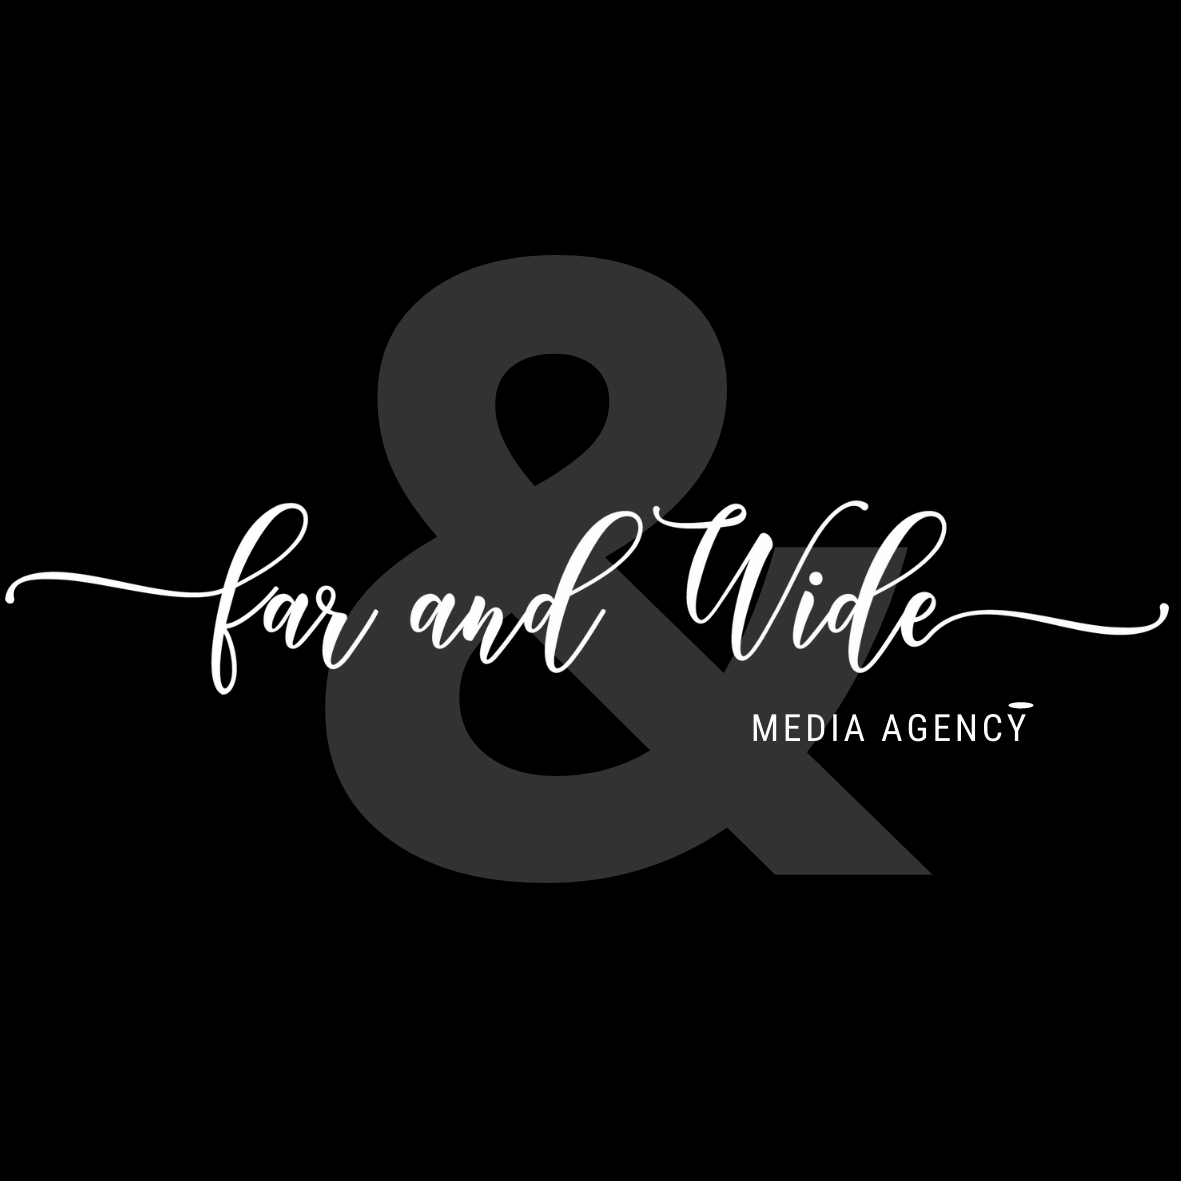
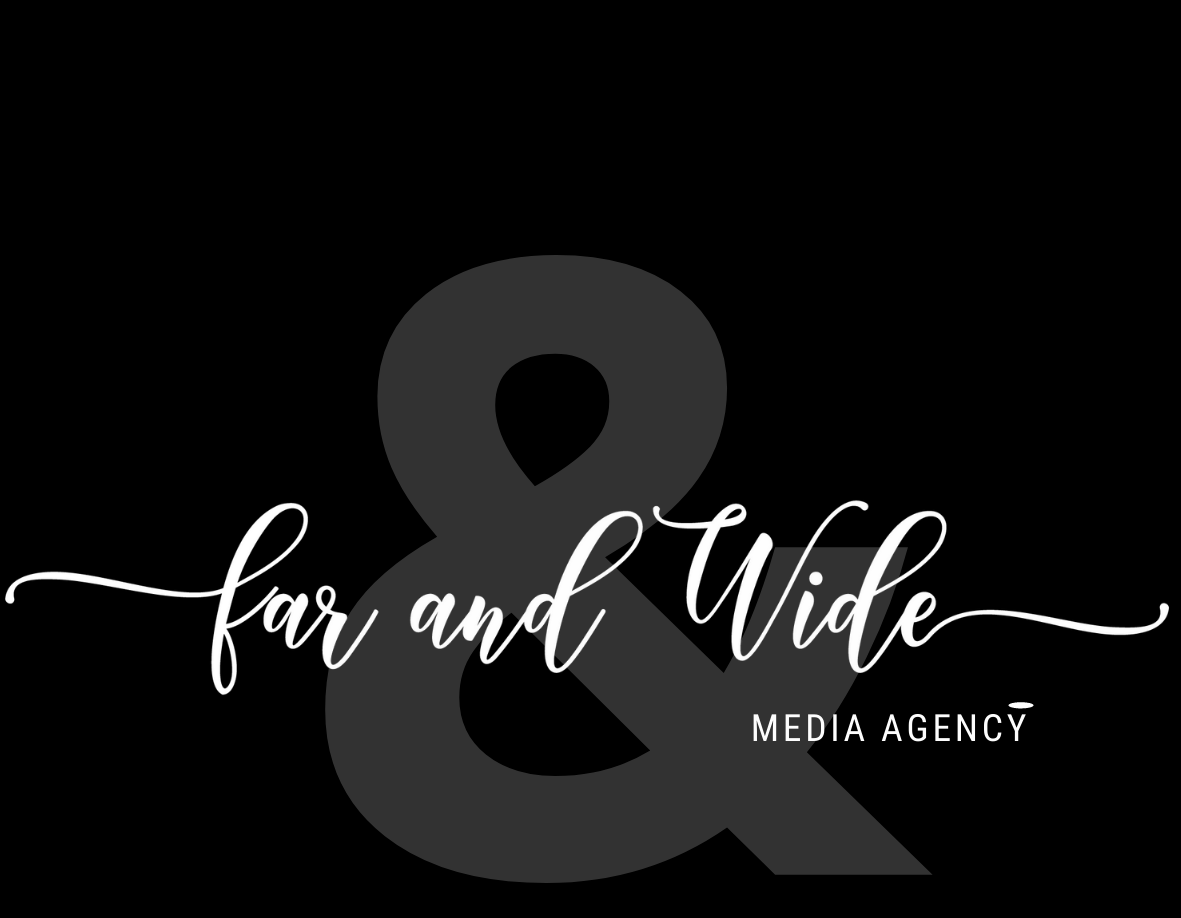
updated

Changed region(s): [[0.0, 0.2135, 1.0, 0.976], [0.8535, 0.5185, 1.0, 0.549], [0.0, 0.61, 0.1219, 0.671]]

diff --git a/index.html b/index.html
@@ -83,7 +83,7 @@
             padding-top:50px;
             width:98%;
             height:auto;
-            padding-bottom: 30px;
+            padding-bottom: 10px;
         }
         .imgfw{
             width:100%;
